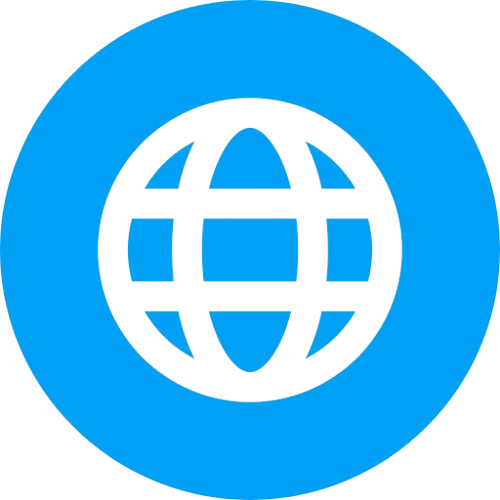
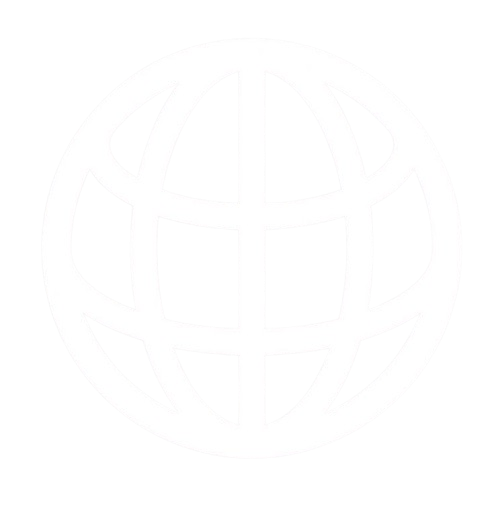
updated code

diff --git a/src/pages/ComparisonComingSoon.css b/src/pages/ComparisonComingSoon.css
@@ -1,0 +1,186 @@
+.coming-wrapper {
+    min-height: 100vh;
+  
+    background:
+      linear-gradient(
+        135deg,
+        #1b0f0a,
+        #3b1d12
+      );
+  
+    position: relative;
+  
+    overflow: hidden;
+  
+    display: flex;
+    align-items: center;
+    justify-content: center;
+  
+    padding: 40px 24px;
+  }
+  
+  .coming-bg-grid {
+    position: absolute;
+    inset: 0;
+  
+    background-image:
+      linear-gradient(
+        rgba(255,255,255,0.03) 1px,
+        transparent 1px
+      ),
+      linear-gradient(
+        90deg,
+        rgba(255,255,255,0.03) 1px,
+        transparent 1px
+      );
+  
+    background-size: 60px 60px;
+  
+    animation: moveGrid 12s linear infinite;
+  }
+  
+  @keyframes moveGrid {
+    from {
+      transform: translateY(0);
+    }
+    to {
+      transform: translateY(60px);
+    }
+  }
+  
+  .coming-card {
+    position: relative;
+    z-index: 2;
+  
+    width: 100%;
+    max-width: 720px;
+  
+    background:
+      rgba(255,255,255,0.06);
+  
+    backdrop-filter: blur(20px);
+  
+    border-radius: 32px;
+  
+    border: 1px solid rgba(255,255,255,0.08);
+  
+    padding: 70px 50px;
+  
+    text-align: center;
+  
+    box-shadow:
+      0 20px 80px rgba(0,0,0,0.35);
+  }
+  
+  .coming-icon {
+    width: 110px;
+    height: 110px;
+  
+    margin: 0 auto 28px;
+  
+    border-radius: 28px;
+  
+    background:
+      linear-gradient(
+        135deg,
+        rgba(244,123,32,0.18),
+        rgba(121,85,72,0.24)
+      );
+  
+    display: flex;
+    align-items: center;
+    justify-content: center;
+  
+    color: #ffb067;
+  
+    animation: floatIcon 3s ease-in-out infinite;
+  }
+  
+  @keyframes floatIcon {
+    0%,100% {
+      transform: translateY(0);
+    }
+    50% {
+      transform: translateY(-10px);
+    }
+  }
+  
+  .coming-badge {
+    display: inline-block;
+  
+    padding: 10px 18px;
+  
+    border-radius: 999px;
+  
+    background:
+      rgba(255,255,255,0.08);
+  
+    color: #ffb067;
+  
+    font-size: 0.78rem;
+  
+    letter-spacing: 0.12em;
+  
+    text-transform: uppercase;
+  
+    margin-bottom: 26px;
+  }
+  
+  .coming-title {
+    font-size: clamp(2.6rem, 6vw, 5rem);
+  
+    line-height: 1;
+  
+    color: white;
+  
+    margin-bottom: 24px;
+  }
+  
+  .coming-title span {
+    display: block;
+  
+    color: #ffb067;
+  }
+  
+  .coming-desc {
+    max-width: 580px;
+  
+    margin: 0 auto;
+  
+    color: rgba(255,255,255,0.75);
+  
+    line-height: 1.9;
+  
+    font-size: 1.05rem;
+  }
+  
+  .coming-btn {
+    margin-top: 42px;
+  
+    border: none;
+  
+    background:
+      linear-gradient(
+        135deg,
+        #f47b20,
+        #ff9b4d
+      );
+  
+    color: white;
+  
+    padding: 16px 28px;
+  
+    border-radius: 16px;
+  
+    font-size: 1rem;
+  
+    font-weight: 600;
+  
+    cursor: pointer;
+  
+    transition: all 0.25s ease;
+  }
+  
+  .coming-btn:hover {
+    transform: translateY(-4px);
+  }

diff --git a/src/pages/ComparisonComingSoon.jsx b/src/pages/ComparisonComingSoon.jsx
@@ -1,0 +1,55 @@
+import "./ComparisonComingSoon.css";
+
+export default function ComparisonComingSoon({
+  navigate,
+}) {
+  return (
+    <div className="coming-wrapper">
+
+      <div className="coming-bg-grid" />
+
+      <div className="coming-card">
+
+        <div className="coming-icon">
+          <svg
+            width="56"
+            height="56"
+            viewBox="0 0 24 24"
+            fill="none"
+            stroke="currentColor"
+            strokeWidth="1.8"
+          >
+            <path d="M3 21h18" />
+            <path d="M5 21V7l8-4v18" />
+            <path d="M19 21V11l-6-4" />
+          </svg>
+        </div>
+
+        <div className="coming-badge">
+          404 • Under Development
+        </div>
+
+        <h1 className="coming-title">
+          Comparison Tool
+          <span>Coming Soon</span>
+        </h1>
+
+        <p className="coming-desc">
+          We're building an advanced
+          comparison engine with
+          contractor-grade civil analytics,
+          smart BOQ insights, and premium
+          project benchmarking tools.
+        </p>
+
+        <button
+          className="coming-btn"
+          onClick={() => navigate("home")}
+        >
+          Back To Home
+        </button>
+
+      </div>
+    </div>
+  );
+}

diff --git a/src/components/Navbar.jsx b/src/components/Navbar.jsx
@@ -91,10 +91,23 @@
                         toolsOpen
                           ? "navbar__tools-dropdown--open"
                           : ""
-                      }`}
-                    >
+                      }`}> 
+                    {/* use this when comparsion url comes 1)href={t.href} 2)remove onclick 3)target="_blank" for tool and mobile-toll both and add url in db,js*/}
                       {toolMenus.map((t) => (
-                        <a key={t.id} href={t.href} target="_blank" rel="noopener noreferrer" className="navbar__tools-item">
+                        <a key={t.id} href={
+                          t.id === "comparison"
+                            ? "#comparison-coming-soon"
+                            : t.href
+                        }onClick={(e) => {
+                          if (t.id === "comparison") {
+                            e.preventDefault();
+                            go("comparison-coming-soon");
+                          }
+                        }} target={
+                          t.id === "comparison"
+                            ? "_self"
+                            : "_blank"
+                        } rel="noopener noreferrer" className="navbar__tools-item">
                           <div className="navbar__tools-item-content">
 
                             <div
@@ -293,8 +306,22 @@
                           {toolMenus.map((t) => (
                             <a
                             key={t.id}
-                            href={t.href}
-                            target="_blank"
+                            href={
+                              t.id === "comparison"
+                                ? "#comparison-coming-soon"
+                                : t.href
+                            }
+                            onClick={(e) => {
+                              if (t.id === "comparison") {
+                                e.preventDefault();
+                                go("comparison-coming-soon");
+                              }
+                            }}
+                            target={
+                              t.id === "comparison"
+                                ? "_self"
+                                : "_blank"
+                            }
                             rel="noopener noreferrer"
                             className="navbar__mobile-tool-link"
                           >

diff --git a/src/App.css b/src/App.css
@@ -40,10 +40,10 @@
   position: fixed;
   right: 24px;
   bottom: 24px;
-  width: 64px;
-  height: 64px;
+  width: 60px;
+  height: 60px;
   border-radius: 50%;
-  background: rgba(37,211,102,0.470);
+  background: rgba(37,211,102);
   display: flex;
   align-items: center;
   justify-content: center;
@@ -57,8 +57,8 @@
 }
 
 .whatsapp-icon {
-  width: 34px;
-  height: 34px;
+  width: 44px;
+  height: 44px;
   object-fit: contain;
   display: block;
 }
@@ -67,11 +67,10 @@
   position: fixed;
   right: 24px;
   bottom: 100px;
-  width: 64px;
-  height: 64px;
+  width: 60px;
+  height: 60px;
   border-radius: 50%; 
-  background: rgba(80, 170, 255, 0.470);
-  background: rgba(80, 170, 255,0.470);
+  background: rgb(49, 152, 248);
   display: flex;
   align-items: center;
   justify-content: center;
@@ -85,22 +84,26 @@
 }
 
 .website-icon {
-  width: 34px;
-  height: 34px;
+  width: 38px;
+  height: 38px;
   object-fit: contain;
   display: block;
 }
 
 @media (max-width: 900px) {
-  .website-icon, .whatsapp-icon {
+  .website-icon{
     width: 24px;
     height: 24px;
   }
+  .whatsapp-icon {
+    width: 28px;
+    height: 28px;
+  }
   .website-float, .whatsapp-float {
-    width: 54px;
-    height: 54px;
+    width: 44px;
+    height: 44px;
   }
   .website-float{
-    bottom: 90px;
+    bottom: 80px;
   }
 }

diff --git a/src/App.jsx b/src/App.jsx
@@ -6,6 +6,7 @@ import About from "./pages/About.jsx";
 import Services from "./pages/Services.jsx";
 import Projects from "./pages/Projects.jsx";
 import Contact from "./pages/Contact.jsx";
+import ComparisonComingSoon from "./pages/ComparisonComingSoon.jsx";
 import "./App.css";
 export default function App() {
   const [page, setPage] = useState("home");
@@ -45,7 +46,7 @@ export default function App() {
     document.title = `Dip Projects - ${menuName}`;
   };
 
-  const pages = { home: Home, about: About, services: Services, projects: Projects, contact: Contact };
+  const pages = { home: Home, about: About, services: Services, projects: Projects, contact: Contact,   "comparison-coming-soon":ComparisonComingSoon };
   const PageComponent = pages[page] || Home;
 
   return (

diff --git a/src/data/db.js b/src/data/db.js
@@ -45,7 +45,7 @@ export const brand = {
     {
       id: "comparison",
       label: "Comparision",
-      href: "https://script.google.com/macros/s/AKfycbxCIIYIFFng_m95MLK40RBbtC0XRHlDyLaTE1exgHRhwebLyd1v-fUaiB2g0kOrJfTl/exec",
+      href: "#comparison-coming-soon",
     },
   ];
 